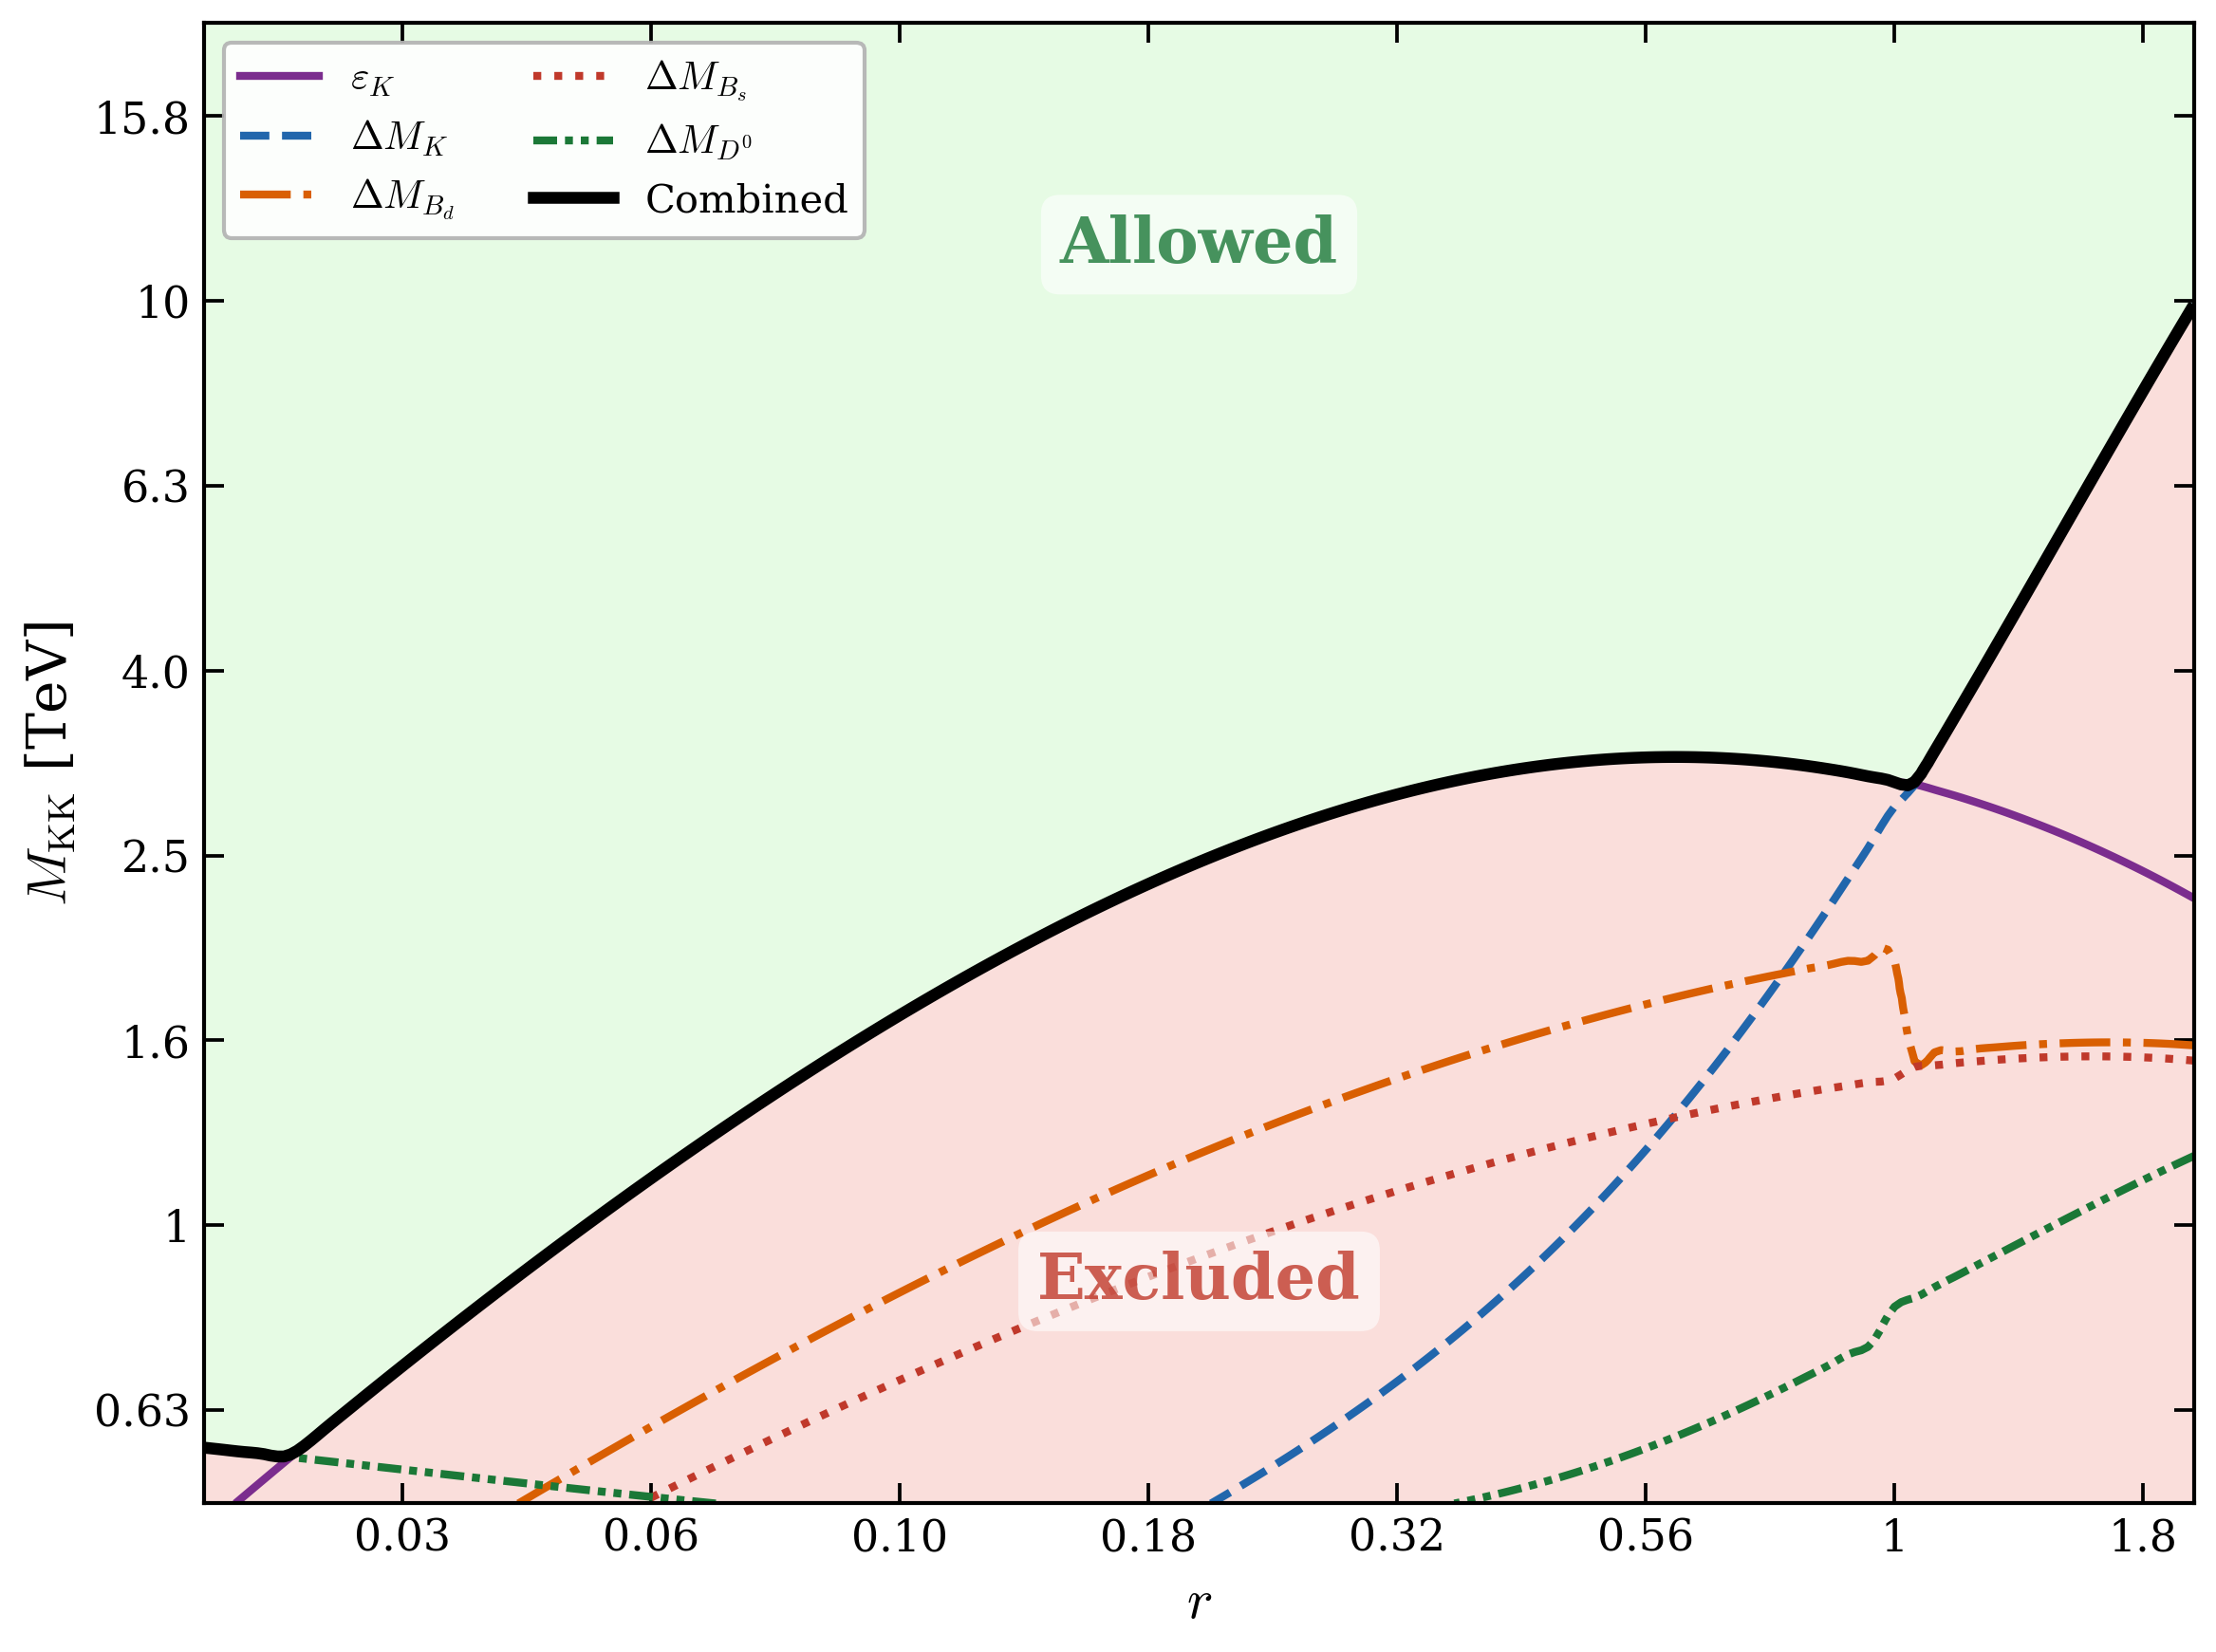
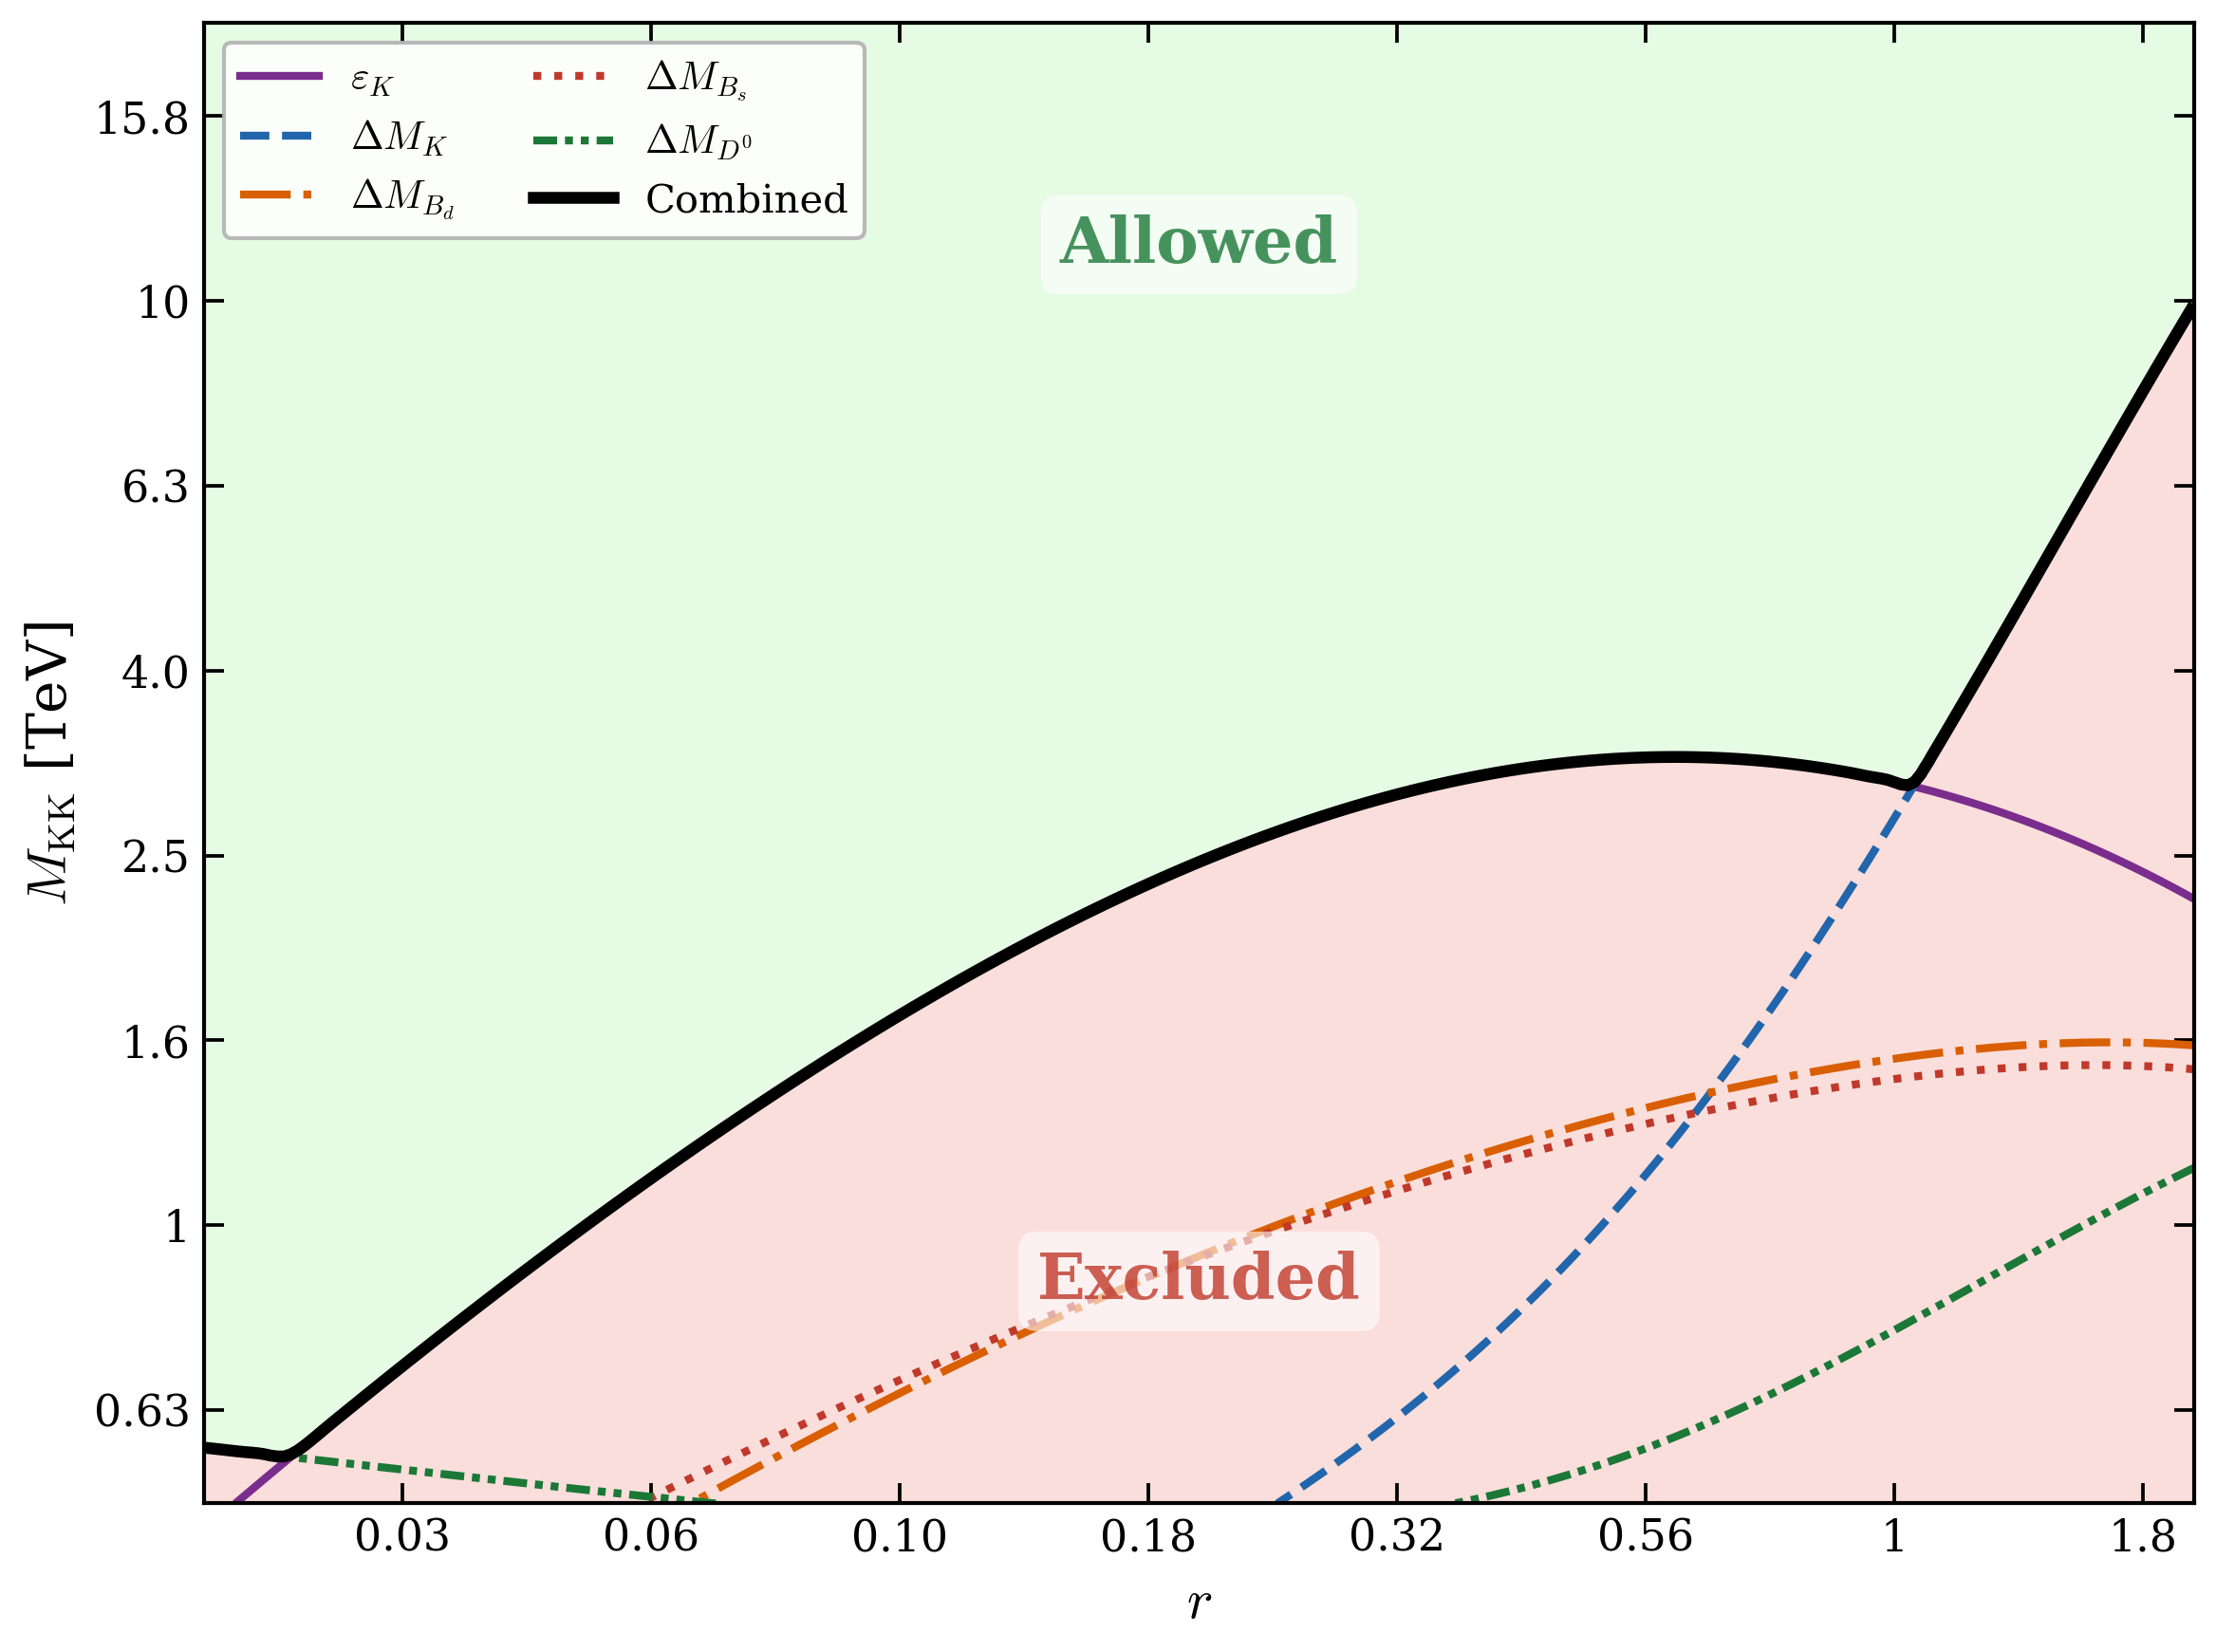
Fix 5 code review items: per-system marginalization, config compat, provenance
1. Figure 1: each system contour now marginalized over overall_scale
   independently, not reusing the combined-best scale.

2. Historical config loading: missing g_s_star defaults to None
   (perturbative g_s), preserving pre-g_s* behavior.

3. Provenance versioning: bumped modern bundle/provenance IDs from
   .v1 to .v2 since g_s* is physics-bearing.

4. Legacy code: all repo_v1 calls to compute_quark_kk_gluon_couplings
   now pass g_s_star=None explicitly with legacy behavior comments.

5. Narrative: corrected M_KK floor attribution (small r, not r=0.25).

diff --git a/scripts/plot_publication_figures.py b/scripts/plot_publication_figures.py
@@ -200,14 +200,19 @@ def _configure_style() -> None:
 def _aggregate_best_scale(
     data: dict[str, Any],
 ) -> tuple[np.ndarray, np.ndarray, dict[str, np.ndarray], np.ndarray]:
-    """At each unique (r, M_KK) grid point, pick the overall_scale that
-    minimizes max_ratio (the 'best' point).
+    """At each unique (r, M_KK) grid point, marginalize over overall_scale
+    independently for each system and for the combined contour.
+
+    For each system's contour, we pick the overall_scale that minimizes
+    THAT system's ratio_to_bound.  For the combined contour, we pick the
+    overall_scale that minimizes the combined max(all 5 ratios).
 
     Returns
     -------
     r_agg, mkk_agg : 1-D arrays of unique (r, M_KK) values.
-    ratios_agg : dict mapping system_id -> 1-D array of best ratio values.
-    max_ratio_agg : 1-D array of best max-ratio values.
+    ratios_agg : dict mapping system_id -> 1-D array of per-system-best
+        ratio values (each system marginalized independently).
+    max_ratio_agg : 1-D array of best max-ratio values (combined contour).
     """
     r = data["r"]
     mkk = data["M_KK"]
@@ -223,27 +228,32 @@ def _aggregate_best_scale(
     max_ratios: list[float] = []
 
     for (r_val, mkk_val), indices in grid.items():
-        # For each point, compute max_ratio across systems
-        best_idx = None
-        best_max_ratio = float("inf")
-        for idx in indices:
-            rt = ratios_list[idx]
-            if not rt:
-                continue
-            mr = max(rt.get(s, 0.0) for s in SYSTEM_IDS)
-            if mr < best_max_ratio:
-                best_max_ratio = mr
-                best_idx = idx
-
-        if best_idx is None:
+        # Filter to indices that have non-empty ratio dicts
+        valid_indices = [idx for idx in indices if ratios_list[idx]]
+        if not valid_indices:
             continue
 
         r_out.append(r_val)
         mkk_out.append(mkk_val)
+
+        # Combined contour: find the scale that minimizes max(all 5 ratios)
+        best_max_ratio = float("inf")
+        for idx in valid_indices:
+            rt = ratios_list[idx]
+            mr = max(rt.get(s, 0.0) for s in SYSTEM_IDS)
+            if mr < best_max_ratio:
+                best_max_ratio = mr
         max_ratios.append(best_max_ratio)
-        best_ratios = ratios_list[best_idx]
+
+        # Per-system contours: independently minimize each system's ratio
         for s in SYSTEM_IDS:
-            sys_ratios[s].append(best_ratios.get(s, 0.0))
+            best_sys_ratio = float("inf")
+            for idx in valid_indices:
+                rt = ratios_list[idx]
+                sr = rt.get(s, 0.0)
+                if sr < best_sys_ratio:
+                    best_sys_ratio = sr
+            sys_ratios[s].append(best_sys_ratio)
 
     r_agg = np.asarray(r_out)
     mkk_agg = np.asarray(mkk_out)

diff --git a/tests/test_quark_couplings.py b/tests/test_quark_couplings.py
@@ -31,7 +31,8 @@ def _offdiag_norm(matrix: np.ndarray) -> float:
 
 def test_mass_basis_couplings_have_expected_shapes_and_are_finite():
     result = _fit_solution(0.25).result
-    couplings = compute_quark_kk_gluon_couplings(result)
+    # perturbative g_s (legacy repo_v1 behavior)
+    couplings = compute_quark_kk_gluon_couplings(result, g_s_star=None)
 
     for matrix in (
         couplings.left_up,
@@ -53,8 +54,9 @@ def test_mass_basis_couplings_have_expected_shapes_and_are_finite():
 
 def test_explicit_mkk_override_changes_scale_and_running():
     result = _fit_solution(0.25).result
-    default_couplings = compute_quark_kk_gluon_couplings(result)
-    overridden = compute_quark_kk_gluon_couplings(result, M_KK=6000.0, xi_KK=7.0)
+    # perturbative g_s (legacy repo_v1 behavior)
+    default_couplings = compute_quark_kk_gluon_couplings(result, g_s_star=None)
+    overridden = compute_quark_kk_gluon_couplings(result, M_KK=6000.0, xi_KK=7.0, g_s_star=None)
 
     assert np.isclose(default_couplings.M_KK, result.point.Lambda_IR)
     assert np.isclose(overridden.M_KK, 6000.0)
@@ -81,8 +83,9 @@ def test_small_r_reduces_down_sector_left_handed_offdiagonals():
         max_nfev=120,
     ).result
 
-    small_couplings = compute_quark_kk_gluon_couplings(small_r)
-    large_couplings = compute_quark_kk_gluon_couplings(large_r)
+    # perturbative g_s (legacy repo_v1 behavior)
+    small_couplings = compute_quark_kk_gluon_couplings(small_r, g_s_star=None)
+    large_couplings = compute_quark_kk_gluon_couplings(large_r, g_s_star=None)
 
     assert _offdiag_norm(small_couplings.left_down) < _offdiag_norm(large_couplings.left_down)
     assert abs(small_couplings.left_down[1, 2]) < abs(large_couplings.left_down[1, 2])

diff --git a/quarkConstraints/validation.py b/quarkConstraints/validation.py
@@ -108,7 +108,8 @@ def benchmark_fit_summary(
     m_kk = default_quark_m_kk_from_lambda_ir(result.point.Lambda_IR, xi_KK=xi_KK)
     diagnostics = summarize_flavor_diagnostics(result, m_kk=m_kk)
     deltaf2 = evaluate_delta_f2_constraints(
-        compute_quark_kk_gluon_couplings(result, M_KK=m_kk, xi_KK=xi_KK),
+        # perturbative g_s (legacy repo_v1 behavior)
+        compute_quark_kk_gluon_couplings(result, M_KK=m_kk, xi_KK=xi_KK, g_s_star=None),
         M_KK=m_kk,
     )
     deltaf2_by_system = deltaf2.by_system
@@ -158,7 +159,8 @@ def benchmark_plot_data(
     m_kk = default_quark_m_kk_from_lambda_ir(result.point.Lambda_IR, xi_KK=xi_KK)
     diagnostics = summarize_flavor_diagnostics(result, m_kk=m_kk)
     deltaf2 = evaluate_delta_f2_constraints(
-        compute_quark_kk_gluon_couplings(result, M_KK=m_kk, xi_KK=xi_KK),
+        # perturbative g_s (legacy repo_v1 behavior)
+        compute_quark_kk_gluon_couplings(result, M_KK=m_kk, xi_KK=xi_KK, g_s_star=None),
         M_KK=m_kk,
     )
     deltaf2_by_system = deltaf2.by_system
@@ -271,7 +273,8 @@ def r_sweep_plot_data(
         m_kk = default_quark_m_kk_from_lambda_ir(result.point.Lambda_IR, xi_KK=xi_KK)
         diagnostics = summarize_flavor_diagnostics(result, m_kk=m_kk)
         deltaf2 = evaluate_delta_f2_constraints(
-            compute_quark_kk_gluon_couplings(result, M_KK=m_kk, xi_KK=xi_KK),
+            # perturbative g_s (legacy repo_v1 behavior)
+            compute_quark_kk_gluon_couplings(result, M_KK=m_kk, xi_KK=xi_KK, g_s_star=None),
             M_KK=m_kk,
         )
         deltaf2_by_system = deltaf2.by_system

diff --git a/quarkConstraints/modern/conventions.py b/quarkConstraints/modern/conventions.py
@@ -5,13 +5,13 @@ from __future__ import annotations
 from dataclasses import asdict, dataclass
 
 MODERN_LANE_ID = "modern"
-MODERN_CONVENTIONS_SCHEMA_ID = "quarkConstraints.modern.conventions.v1"
+MODERN_CONVENTIONS_SCHEMA_ID = "quarkConstraints.modern.conventions.v2"
 MODERN_INPUT_REGISTRY_SCHEMA_ID = "quarkConstraints.modern.inputs.registry.v1"
 MODERN_INPUT_NAMESPACE = "quarkConstraints.modern.inputs"
 MODERN_PROVENANCE_NAMESPACE = "quarkConstraints.modern.provenance"
-MODERN_BUNDLE_ID_TEMPLATE = f"{MODERN_INPUT_NAMESPACE}.{{family_id}}.{{bundle_slug}}.v1"
+MODERN_BUNDLE_ID_TEMPLATE = f"{MODERN_INPUT_NAMESPACE}.{{family_id}}.{{bundle_slug}}.v2"
 MODERN_PROVENANCE_ID_TEMPLATE = (
-    f"{MODERN_PROVENANCE_NAMESPACE}.{{family_id}}.{{bundle_slug}}.v1"
+    f"{MODERN_PROVENANCE_NAMESPACE}.{{family_id}}.{{bundle_slug}}.v2"
 )
 MODERN_STRICT_PAPER_BUNDLE_FAMILY_ID = "strict_paper_inputs"
 MODERN_DEFAULT_BUNDLE_FAMILY_ID = "modern_default_inputs"

diff --git a/quarkConstraints/modern/scan.py b/quarkConstraints/modern/scan.py
@@ -343,7 +343,10 @@ class ModernScanConfig:
         targets_payload = dict(payload["targets"])
         ckm_real = np.asarray(targets_payload["ckm_real"], dtype=float)
         ckm_imag = np.asarray(targets_payload["ckm_imag"], dtype=float)
-        raw_g_s_star = payload.get("g_s_star", 3.0)
+        # Preserve historical meaning: configs written before g_s* was
+        # introduced used perturbative g_s (i.e. g_s_star=None).  Default
+        # to None so we don't silently inject g_s*=3 into old configs.
+        raw_g_s_star = payload.get("g_s_star", None)
         g_s_star = None if raw_g_s_star is None else float(raw_g_s_star)
         return cls(
             schema_id=str(payload["schema_id"]),

diff --git a/quarkConstraints/deltaf2.py b/quarkConstraints/deltaf2.py
@@ -291,7 +291,9 @@ def _coerce_couplings(
     required = ("M_KK", "left_down", "right_down", "left_up", "right_up")
     if all(hasattr(source, name) for name in required):
         return source  # type: ignore[return-value]
-    return compute_quark_kk_gluon_couplings(source, M_KK=M_KK, xi_KK=xi_KK)
+    # perturbative g_s (legacy repo_v1 behavior); callers that want g_s*
+    # enhancement should pre-compute couplings with g_s_star=<value>.
+    return compute_quark_kk_gluon_couplings(source, M_KK=M_KK, xi_KK=xi_KK, g_s_star=None)
 
 
 def _pair_couplings(

diff --git a/quarkConstraints/scan.py b/quarkConstraints/scan.py
@@ -224,7 +224,8 @@ def run_quark_scan(
                     result = solution.result
                     diagnostics = summarize_flavor_diagnostics(result, m_kk=M_KK)
                     deltaf2 = evaluate_delta_f2_constraints(
-                        compute_quark_kk_gluon_couplings(result, M_KK=M_KK, xi_KK=config.xi_KK),
+                        # perturbative g_s (legacy repo_v1 behavior)
+                        compute_quark_kk_gluon_couplings(result, M_KK=M_KK, xi_KK=config.xi_KK, g_s_star=None),
                         M_KK=M_KK,
                     )
                     deltaf2_by_system = deltaf2.by_system

diff --git a/scripts/benchmark_quark_mfv.py b/scripts/benchmark_quark_mfv.py
@@ -33,7 +33,8 @@ def main() -> int:
     xi_kk = DEFAULT_QUARK_BENCHMARK_XI_KK
     m_kk = default_quark_m_kk_from_lambda_ir(result.point.Lambda_IR, xi_KK=xi_kk)
     diagnostics = summarize_flavor_diagnostics(result, m_kk=m_kk)
-    couplings = compute_quark_kk_gluon_couplings(result, M_KK=m_kk, xi_KK=xi_kk)
+    # perturbative g_s (legacy repo_v1 behavior)
+    couplings = compute_quark_kk_gluon_couplings(result, M_KK=m_kk, xi_KK=xi_kk, g_s_star=None)
     deltaf2 = evaluate_delta_f2_constraints(couplings, M_KK=m_kk, xi_KK=xi_kk)
     fit_summary = benchmark_fit_summary(solution, xi_KK=xi_kk)
 

diff --git a/tests/test_qcd_running.py b/tests/test_qcd_running.py
@@ -439,7 +439,8 @@ class TestEpsilonKWithRunning:
         from quarkConstraints.couplings import compute_quark_kk_gluon_couplings
         from quarkConstraints.deltaf2 import compute_delta_f2_wilsons
 
-        couplings = compute_quark_kk_gluon_couplings(fitted_point)
+        # perturbative g_s (legacy repo_v1 behavior)
+        couplings = compute_quark_kk_gluon_couplings(fitted_point, g_s_star=None)
         wilsons_tuple = compute_delta_f2_wilsons(couplings)
         for w in wilsons_tuple:
             if w.input.key == "epsilon_k":

diff --git a/quarkConstraints/modern/bridge_artifacts.py b/quarkConstraints/modern/bridge_artifacts.py
@@ -16,7 +16,7 @@ MODERN_POINT_BRIDGE_ARTIFACT_SCHEMA_VERSION = 1
 MODERN_POINT_COUPLINGS_SCHEMA_ID = "quarkConstraints.modern.couplings.point.v1"
 MODERN_POINT_MATCHING_SCHEMA_ID = "quarkConstraints.modern.matching.point.v1"
 MODERN_POINT_MATCHING_SYSTEM_SCHEMA_ID = "quarkConstraints.modern.matching.system.v1"
-MODERN_DEFAULT_INPUTS_SCHEMA_ID = "quarkConstraints.modern.inputs.modern_default_inputs.v1"
+MODERN_DEFAULT_INPUTS_SCHEMA_ID = "quarkConstraints.modern.inputs.modern_default_inputs.v2"
 MODERN_POINT_EVALUATION_SCHEMA_ID = "quarkConstraints.modern.evaluation.v1"
 MODERN_MATCHING_SYSTEM_IDS = ("K", "B_d", "B_s", "D0")
 

diff --git a/quarkConstraints/modern/inputs.py b/quarkConstraints/modern/inputs.py
@@ -26,7 +26,7 @@ from .conventions import (
 )
 
 MODERN_STRICT_PAPER_INPUTS_SCHEMA_ID = "quarkConstraints.modern.inputs.strict_paper_inputs.v1"
-MODERN_DEFAULT_INPUTS_SCHEMA_ID = "quarkConstraints.modern.inputs.modern_default_inputs.v1"
+MODERN_DEFAULT_INPUTS_SCHEMA_ID = "quarkConstraints.modern.inputs.modern_default_inputs.v2"
 MODERN_DEFAULT_RESOLUTION_POLICY_ID = (
     "quarkConstraints.modern.inputs.modern_default.explicit_repo_payloads.v1"
 )

diff --git a/quarkConstraints/modern/verifier.py b/quarkConstraints/modern/verifier.py
@@ -46,7 +46,7 @@ ALLOWED_ABSOLUTE_LOCAL_IMPORTS = (
     f"{PACKAGE_ROOT}.artifacts",
     f"{PACKAGE_ROOT}.phenomenology",
 )
-MODERN_BRIDGE_INPUTS_SCHEMA_ID = "quarkConstraints.modern.inputs.modern_default_inputs.v1"
+MODERN_BRIDGE_INPUTS_SCHEMA_ID = "quarkConstraints.modern.inputs.modern_default_inputs.v2"
 FORBIDDEN_EXTERNAL_MODULE_PREFIXES = (
     "quarkConstraints.benchmarks",
     "quarkConstraints.couplings",